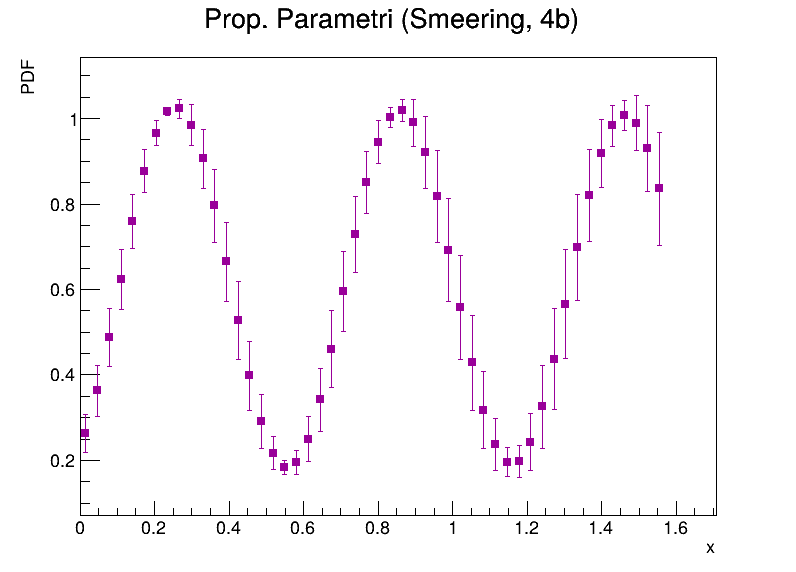
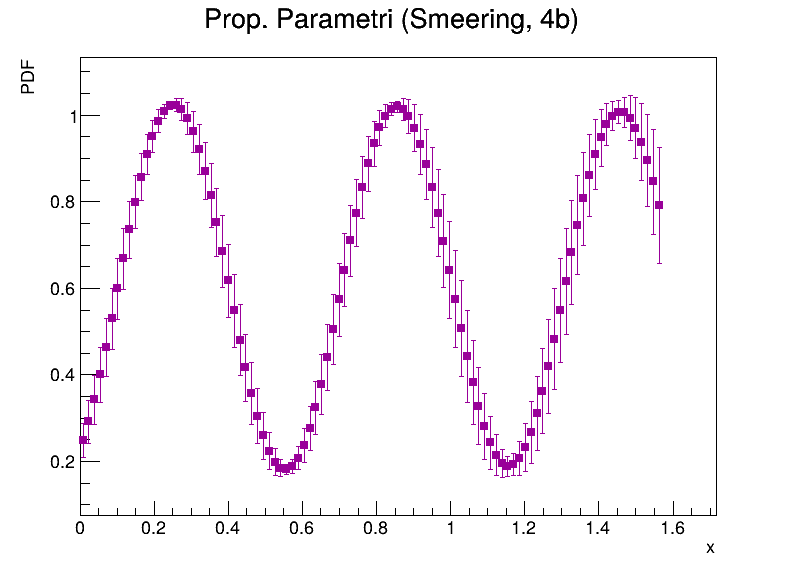
finita scheda 1

diff --git a/mcgenerator.cpp b/mcgenerator.cpp
@@ -9,8 +9,9 @@
 #include <TStyle.h>  // per gRandom
 
 #include <iostream>
-#include <string>
 #include <vector>
+
+#include "functions.hpp"
 
 MCgenerator::MCgenerator(int N_val, int Bins_val, double k_val, double teta_val,
                          double b_val, double x_min_val, double x_max_val)
@@ -22,6 +23,12 @@ MCgenerator::MCgenerator(int N_val, int Bins_val, double k_val, double teta_val,
       x_min(x_min_val),
       x_max(x_max_val),
       h(nullptr) {
+
+  // imposto inceretzze sistematiche
+  dk = 0.02 * k;
+  dteta = 0.05 * teta;
+  db = 0.01 * b;
+
   function =
       new TF1("myFunc", "TMath::Power(TMath::Cos([0] * x + [1]), 2) + [2]",
               x_min, x_max);
@@ -64,38 +71,12 @@ TH1D* MCgenerator::Fillh() {
   return h;
 }
 
-TF1* MCgenerator::GetNormalizedFunction() const {
-  // crea una NUOVA funzione, il chiamante deve gestirne la delete
-  TF1* f_norm =
-      new TF1("f_norm_temp", "TMath::Power(TMath::Cos([0] * x + [1]), 2) + [2]",
-              x_min, x_max);
-  f_norm->SetParameters(k, teta, b);
-
-  double integral = f_norm->Integral(x_min, x_max);
-  if (integral > 0) {
-    // per normalizzare la PDF, dobbiamo scalare per 1/integrale
-    // TF1 non lo fa facilmente->creiamo una funzione wrapper.
-    delete f_norm;  // cancella la precedente
-
-    f_norm = new TF1("f_norm_pdf",
-                     "[0]*(TMath::Power(TMath::Cos([1]*x + [2]), 2) + [3])",
-                     x_min, x_max);
-    f_norm->SetParameter(0, 1.0 / integral);  // Fattore di scala
-    f_norm->SetParameter(1, k);
-    f_norm->SetParameter(2, teta);
-    f_norm->SetParameter(3, b);
-  }
-  f_norm->SetLineColor(kRed);
-  return f_norm;
-}
-
 double MCgenerator::GetRMSD() const {
   double sum = 0.0;
   int n_bins = h->GetNbinsX();
 
   // normalizziamo la funzione per il confronto
-  TF1* f_norm = GetNormalizedFunction();
-
+  TF1* f_norm = GetNormalizedFunction(k, teta, b, x_min, x_max);
   // normalizziamo l'istogramma
   TH1D* h_norm = (TH1D*)h->Clone("h_norm_temp");
   h_norm->Scale(1.0 / h_norm->Integral("width"));
@@ -159,25 +140,31 @@ TGraphErrors* MCgenerator::GraphMeanWithError(int N_replicas) {
   return graph;
 }
 
-TGraphErrors* MCgenerator::GraphBinSmeering(int N_replicas,
-                                            double smear_fraction) {
+TGraphErrors* MCgenerator::GraphBinSmeering(int N_replicas) {
   std::vector<std::vector<double>> bins(Bins);
   double bin_width = (x_max - x_min) / Bins;
 
   // usiamo la funzione già normalizzata per il valore teorico
-  TF1* f_norm = GetNormalizedFunction();
+  TF1* f_norm = GetNormalizedFunction(k, teta, b, x_min, x_max);
 
   for (int r = 0; r < N_replicas; ++r) {
     for (int i = 0; i < Bins; ++i) {
       double x = x_min + (i + 0.5) * bin_width;
-      double val = f_norm->Eval(x);
-      double smeared = gRandom->Gaus(val, smear_fraction * val);
-      bins[i].push_back(smeared);
+      double val = f_norm->Eval(x); // valore teorico
+
+      // calcolo incertezza statistica attesa per la pdf
+      double sigma_stat_pdf = 0.0;
+            if (val > 0) { // evita la divisione per zero o sqrt di negativi
+                sigma_stat_pdf = std::sqrt(val / (N * bin_width)); // l'inceretzza statistica 
+            }
+
+            // fluttua il valore teorico (val) con la sua incertezza statistica (sigma)
+            double smeared = gRandom->Gaus(val, sigma_stat_pdf);
+            bins[i].push_back(smeared);
     }
   }
 
-  delete f_norm;  // pulizia (allocazione dinamica nel metodo
-                  // GetNormalizedFunction())
+  delete f_norm;  // pulizia (allocazione dinamica nel metodo GetNormalizedFunction())
 
   std::vector<double> x(Bins), y(Bins), ex(Bins, 0), ey(Bins);
 
@@ -327,7 +314,8 @@ void MCgenerator::DrawFunction(const char* filename) const {
   h_norm->SetTitle("Funzione (norm) vs Istogramma (norm)");
   h_norm->GetYaxis()->SetTitle("PDF");
 
-  TF1* f_scaled = GetNormalizedFunction();  // Ottieni funzione normalizzata
+  TF1* f_scaled = GetNormalizedFunction(
+      k, teta, b, x_min, x_max);  // Ottieni funzione normalizzata
   f_scaled->SetLineColor(kRed);
 
   TCanvas* canvas = new TCanvas("canvas", "Funzione vs Istogramma", 800, 600);

diff --git a/main.cpp b/main.cpp
@@ -7,7 +7,7 @@
 
 int main() {
   // prova 1
-  MCgenerator main_generation(10000, 50);
+  MCgenerator main_generation(10000, 100);
   main_generation.GetFunction();
   main_generation.CreateHistogram("h", "histo MonteCarlo");
   main_generation.Fillh();
@@ -15,15 +15,13 @@ int main() {
 
   TGraphErrors* graph = main_generation.GraphMeanWithError(50);
   graph->SetMarkerColor(kBlue);
-
   TCanvas* c = new TCanvas("c_media", "Media con errore", 800, 600);
   graph->Draw("AP");
-  c->SaveAs("graphs/uncertainty_rigeneration_histo.png");
+  c->SaveAs("graphs/regeneration_histo.png");
 
-  MCgenerator smeared(0, 100);  // N_entries=0 perché non serve generare eventi
-  TGraphErrors* smear_graph = smeared.GraphBinSmeering(50);  // 100 repliche
+  
+  TGraphErrors* smear_graph = main_generation.GraphBinSmeering(50);  // 100 repliche
   smear_graph->SetMarkerColor(kGreen + 2);
-
   TCanvas* c_smear = new TCanvas("c_smear", "Bin-smeering", 800, 600);
   smear_graph->Draw("AP");
   c_smear->SaveAs("graphs/bin_smeering.png");
@@ -32,7 +30,6 @@ int main() {
   TGraphErrors* g_param_regen = main_generation.GraphParamUncertainty_32(50);
   g_param_regen->SetMarkerColor(kRed + 2);
   g_param_regen->SetLineColor(kRed + 2);
-
   TCanvas* c_param_regen = new TCanvas("c_regen32", "Bin-smeering", 800, 600);
   g_param_regen->Draw("AP");
   c_param_regen->SaveAs("graphs/uncertainty_regen_param.png");
@@ -41,7 +38,6 @@ int main() {
   TGraphErrors* g_param_smear = main_generation.GraphParamUncertainty_33(50);
   g_param_smear->SetMarkerColor(kMagenta + 2);
   g_param_smear->SetLineColor(kMagenta + 2);
-
   TCanvas* c_param_smear = new TCanvas("c_smear33", "Bin-smeering", 800, 600);
   g_param_smear->Draw("AP");
   c_param_smear->SaveAs("graphs/uncertainty_smear_param.png");
@@ -61,6 +57,8 @@ int main() {
   generate3.Fillh();
   generate3.DrawFunction("graphs/function3.png");
 
+  // quelli che iniziano per c sono i canvas
+  // quelli per g sono grafici
   delete c;
   delete graph;
   delete c_smear;

diff --git a/functions.cpp b/functions.cpp
@@ -1,3 +1,34 @@
+#include "functions.hpp"
+
 // funzione x normalizzare
+TF1* GetNormalizedFunction(double k, double teta, double b, double x_min, double x_max) {
+    // Crea una NUOVA funzione non normalizzata
+    TF1* f_norm = new TF1("f_norm_temp", "TMath::Power(TMath::Cos([0] * x + [1]), 2) + [2]", 
+                          x_min, x_max);
+    f_norm->SetParameters(k, teta, b);
+
+    double integral = f_norm->Integral(x_min, x_max);
+    
+    if (integral > 0) {
+        // Se l'integrale è valido, crea la funzione wrapper normalizzata
+        delete f_norm; 
+
+        // Nuova funzione con parametro [0] come fattore di scala
+        f_norm = new TF1("f_norm_pdf", 
+                         "[0]*(TMath::Power(TMath::Cos([1]*x + [2]), 2) + [3])", 
+                         x_min, x_max);
+        f_norm->SetParameter(0, 1.0 / integral); // Fattore di scala (normalizzazione)
+        f_norm->SetParameter(1, k);
+        f_norm->SetParameter(2, teta);
+        f_norm->SetParameter(3, b);
+    }
+    
+    f_norm->SetLineColor(kRed);
+    return f_norm;
+}
 // funczione x media
+double function_mean (int N, int sum) {
+    return sum/N;
+}
+
 // funzione x dev std

diff --git a/mcgenerator.hpp b/mcgenerator.hpp
@@ -19,6 +19,11 @@ class MCgenerator {
   double teta;
   double b;
 
+// incertezze sui parametri (Punto 4)
+    double dk;
+    double dteta;
+    double db;
+
   // intervallo di generazione
   double x_min;
   double x_max;
@@ -44,7 +49,6 @@ class MCgenerator {
   void CreateHistogram(const char* name = "h", const char* title = "myHisto");
   TH1D* GetHistogram() const;  // per accedere all'istogramma
   TH1D* Fillh();               // riempe istogramma
-  TF1* GetNormalizedFunction() const;
   double GetRMSD()
       const;  // ritorna la radice quadrata della media degli scarti al quadrato
 
@@ -52,7 +56,7 @@ class MCgenerator {
   TGraphErrors* GraphMeanWithError(int N_replicas);
 
   // pto 3.3
-  TGraphErrors* GraphBinSmeering(int N_replicas, double smear_fraction = 0.05);
+  TGraphErrors* GraphBinSmeering(int N_replicas);
 
   // pto 4(3.2)
   TGraphErrors* GraphParamUncertainty_32(int N_replicas);

diff --git a/functions.hpp b/functions.hpp
@@ -1,0 +1,11 @@
+#ifndef FUNCTIONS_HPP
+#define FUNCTIONS_HPP
+#include <TF1.h>
+#include <TMath.h>
+
+#include <string>
+TF1* GetNormalizedFunction(double k, double teta, double b, double x_min,
+                           double x_max);
+double function_mean(int N, int sum);  // non la sto usando x ora
+
+#endif
